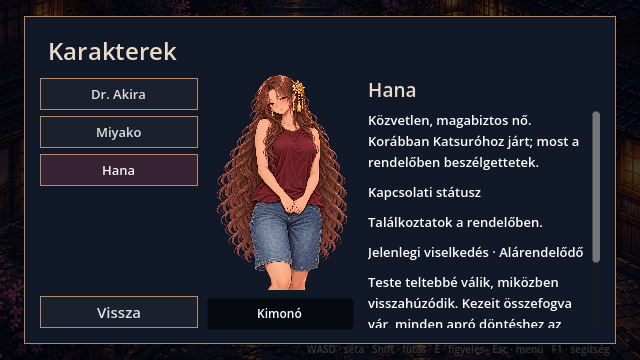
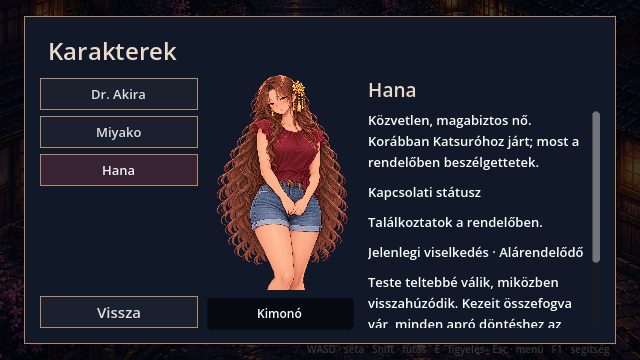
Refine Hana casual outfit with feminine tailoring

Changed region(s): [[0.3438, 0.3056, 0.5625, 0.7944], [0.4375, 0.2444, 0.5, 0.3056]]

diff --git a/docs/EVERYDAY_WARDROBE_REVIEW.md b/docs/EVERYDAY_WARDROBE_REVIEW.md
@@ -15,3 +15,10 @@ Successful more conservative outfit prompt:
 Create an everyday wardrobe reference for the adult woman in the attached illustration. She wears a loose burgundy sleeveless crew-neck cotton top, covering her torso completely, and relaxed blue denim Bermuda shorts reaching just above the knees. Ordinary practical summer streetwear, no glamour posing. Preserve her face, brown wavy hair, tan skin, gold flower ornament and existing body build without exaggeration. Standing calmly, hands loosely together, reserved friendly expression. Frame from head through knees as in reference. Same detailed illustrated visual novel style. Transparent background. No lettering or border.
 
 Validation: Godot import and character_pressure regression pass; wardrobe preview/return and unchanged story stage checked, menu screenshot inspected. Existing shutdown ObjectDB warning remains.
+## V2: feminine tailoring (2026-10-10)
+
+Owner requested a more feminine outfit. Current journal preview now uses hana_casual_deferential_v2_REVIEW.png: embroidered burgundy top with flutter sleeves and side tie, high-waisted cuffed denim shorts and slim belt. Existing identity, body build, pose and framing retained. V1 remains available as an older asset. Built-in ImageGen, transparent_background=true; input hana_casual_deferential_v1_REVIEW.png; output exec-bd82b865-c054-4eaa-bb87-d4af7836b10c.png. Status REVIEW.
+
+Exact prompt:
+
+Refine only the everyday outfit in this adult Hana illustration to be more feminine and elegant. Replace the plain loose tank with a burgundy softly tailored blouse-top, modest rounded neckline, small flutter cap sleeves, delicate tonal floral embroidery near the shoulders, gently defined waist with a small side tie. Opaque fabric with natural drape, fully covering the torso. Replace the baggy Bermuda shorts with smart high-waisted blue denim shorts ending at mid-thigh, neatly turned cuffs, a slim brown belt with a small gold buckle, comfortable fit. Preserve the exact adult face, fuller body proportions, tan skin, brown hair, gold ornaments, hesitant expression and clasped hands. Same head-to-knees framing and illustrated VN art style, natural everyday standing pose. Transparent alpha background, no text or border.
